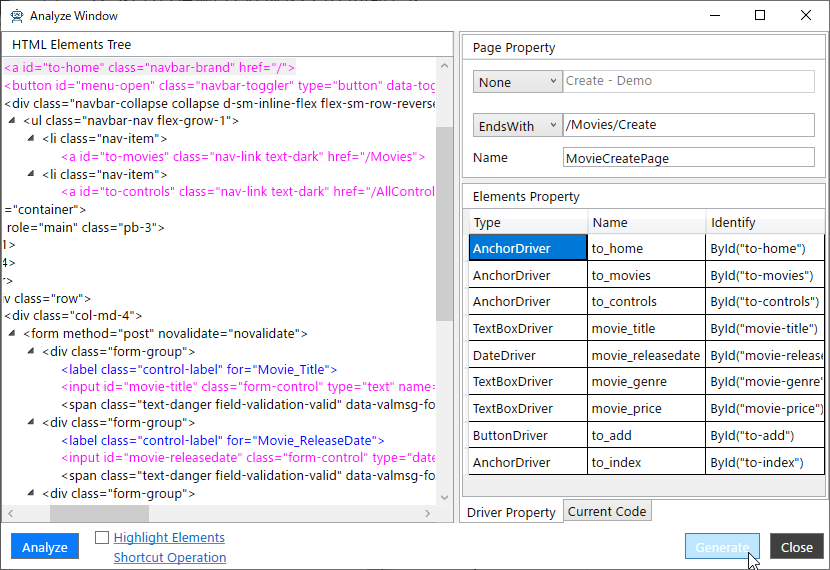
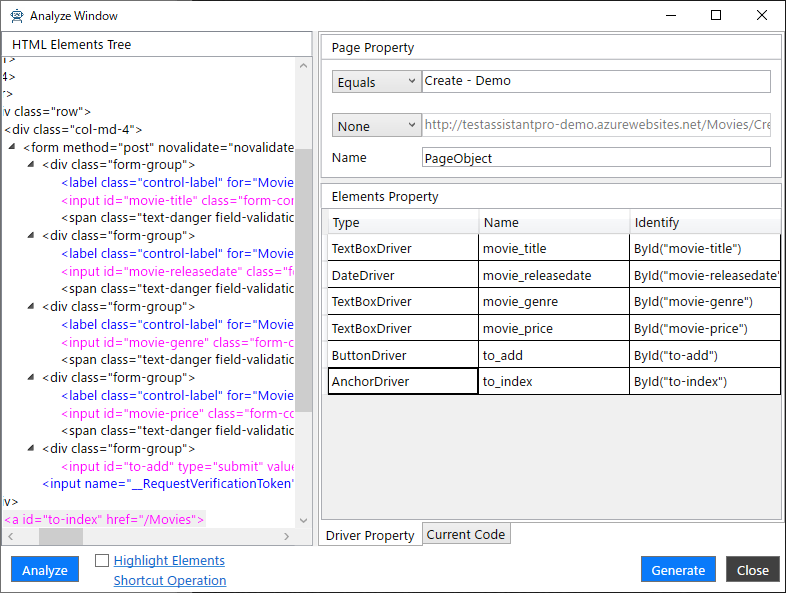
update tutorial

Changed region(s): [[0.0, 0.0, 1.0, 1.0]]

diff --git a/Web/tutorial/PageObject.md b/Web/tutorial/PageObject.md
@@ -98,17 +98,36 @@ namespace PageObject
 
 画面遷移が完了したら[Analyze Window]の[Analyze]ボタンをクリックして再解析を行います。再解析が完了したら次のようになるように[Page Property]を設定してください。
 
-- 上から2つ目のドロップダウンで[EndsWith]を選択し、対応するテキストボックスの値を"/Movies/Create"に設定します。
 - [Name]の値を"MovieCreatePage"に設定します。
 
 また、[Elements Property]に次の要素を追加してください。TypeやNameなどは追加した状態から変更しないでください。
 
-- 画面ヘッダにある3つのリンク
 - 画面内にある各テキストボックス
 - [追加]ボタン
 - [追加]ボタンの下にある[リストへ戻る]リンク
 
 ![Analyze window of movie create page](../img/pageobject_analyzewindow_movie_create.png)
+
+### 要素特定方法の明示的な設定
+
+画面のサブタイトルの要素をプロパティに追加します。コントロールキーを押しながらブラウザの要素を選択するか、またはAnalyzeWindowのHTML要素ツリーからサブタイトルの要素をプロパティに追加してください。
+
+![](../img/pageobject_select_subtitle.png)
+
+追加されたプロパティのIdentify列を選択して表示されるドロップダウンで"*custom"を選択してください。
+
+![](../img/pageobject_select_custom.png)
+
+「Custom Identiy」ダイアログが表示されます。このダイアログでは要素を特定する条件をより詳細に設定できます。初期状態ではリストの一番下のh4にだけチェックがついています。次の内容を設定してください。
+
+- h4要素の上のmain要素を選択する
+- main要素の Identify 列で "ByCssSelector(main[role=main])"を選択する
+
+画面下部に選択した2つの要素の指定が連結されていることを確認できます。「OK」ボタンを押して修正を確定してください。
+
+![](../img/pageobject_detail_identify.png)
+
+### コードの生成
 
 [Generate]ボタンをクリックすることで次のようなコードが生成されます。
 
@@ -122,23 +141,21 @@ namespace PageObject
 {
     public class MovieCreatePage : PageBase
     {
-        public AnchorDriver to_home => ById("to-home").Wait();
-        public AnchorDriver to_movies => ById("to-movies").Wait();
-        public AnchorDriver to_controls => ById("to-controls").Wait();
         public TextBoxDriver movie_title => ById("movie-title").Wait();
         public DateDriver movie_releasedate => ById("movie-releasedate").Wait();
         public TextBoxDriver movie_genre => ById("movie-genre").Wait();
         public TextBoxDriver movie_price => ById("movie-price").Wait();
         public ButtonDriver to_add => ById("to-add").Wait();
         public AnchorDriver to_index => ById("to-index").Wait();
+        public IWebElement h4 => ByCssSelector("main[role='main']").ByTagName("h4").Wait().Find();
 
         public MovieCreatePage(IWebDriver driver) : base(driver) { }
     }
 
-    public static class MovieCreatePageExtensions
+    public static class PageObjectExtensions
     {
-        [PageObjectIdentify("/Movies/Create", UrlComapreType.EndsWith)]
-        public static MovieCreatePage AttachMovieCreatePage(this IWebDriver driver) => new MovieCreatePage(driver);
+        [PageObjectIdentify("Create - Demo", TitleComapreType.Equals)]
+        public static MovieCreatePage AttachPageObject(this IWebDriver driver) => new MovieCreatePage(driver);
     }
 }
 ```
@@ -146,6 +163,6 @@ namespace PageObject
 ## 次の手順
 
 ここまで基本的なページオブジェクトを作成できました。
-次はテーブルなど繰り返しのデータを表示する要素を操作するための、Component Objectを作成します。
+次は画面コンポーネントを操作するための、Component Objectを作成します。
 
-[繰り返し要素のプロパティを追加する](ComponentObject.md)
+[画面コンポーネントのプロパティを追加する](ComponentObject.md)

diff --git a/Web/tutorial/ComponentObject.md b/Web/tutorial/ComponentObject.md
@@ -1,6 +1,6 @@
-# 繰り返し要素のプロパティを追加する
+# 画面コンポーネントのプロパティを追加する
 
-ここからはテーブルなど繰り返しのデータを表示する要素を操作するためのプロパティを追加します。
+ここからはテーブルなど繰り返しのデータを表示する要素を画面コンポーネントとしてComponentObjectを作成し、プロパティに追加します。
 
 ## 映画一覧のComponentObjectを追加する
 
